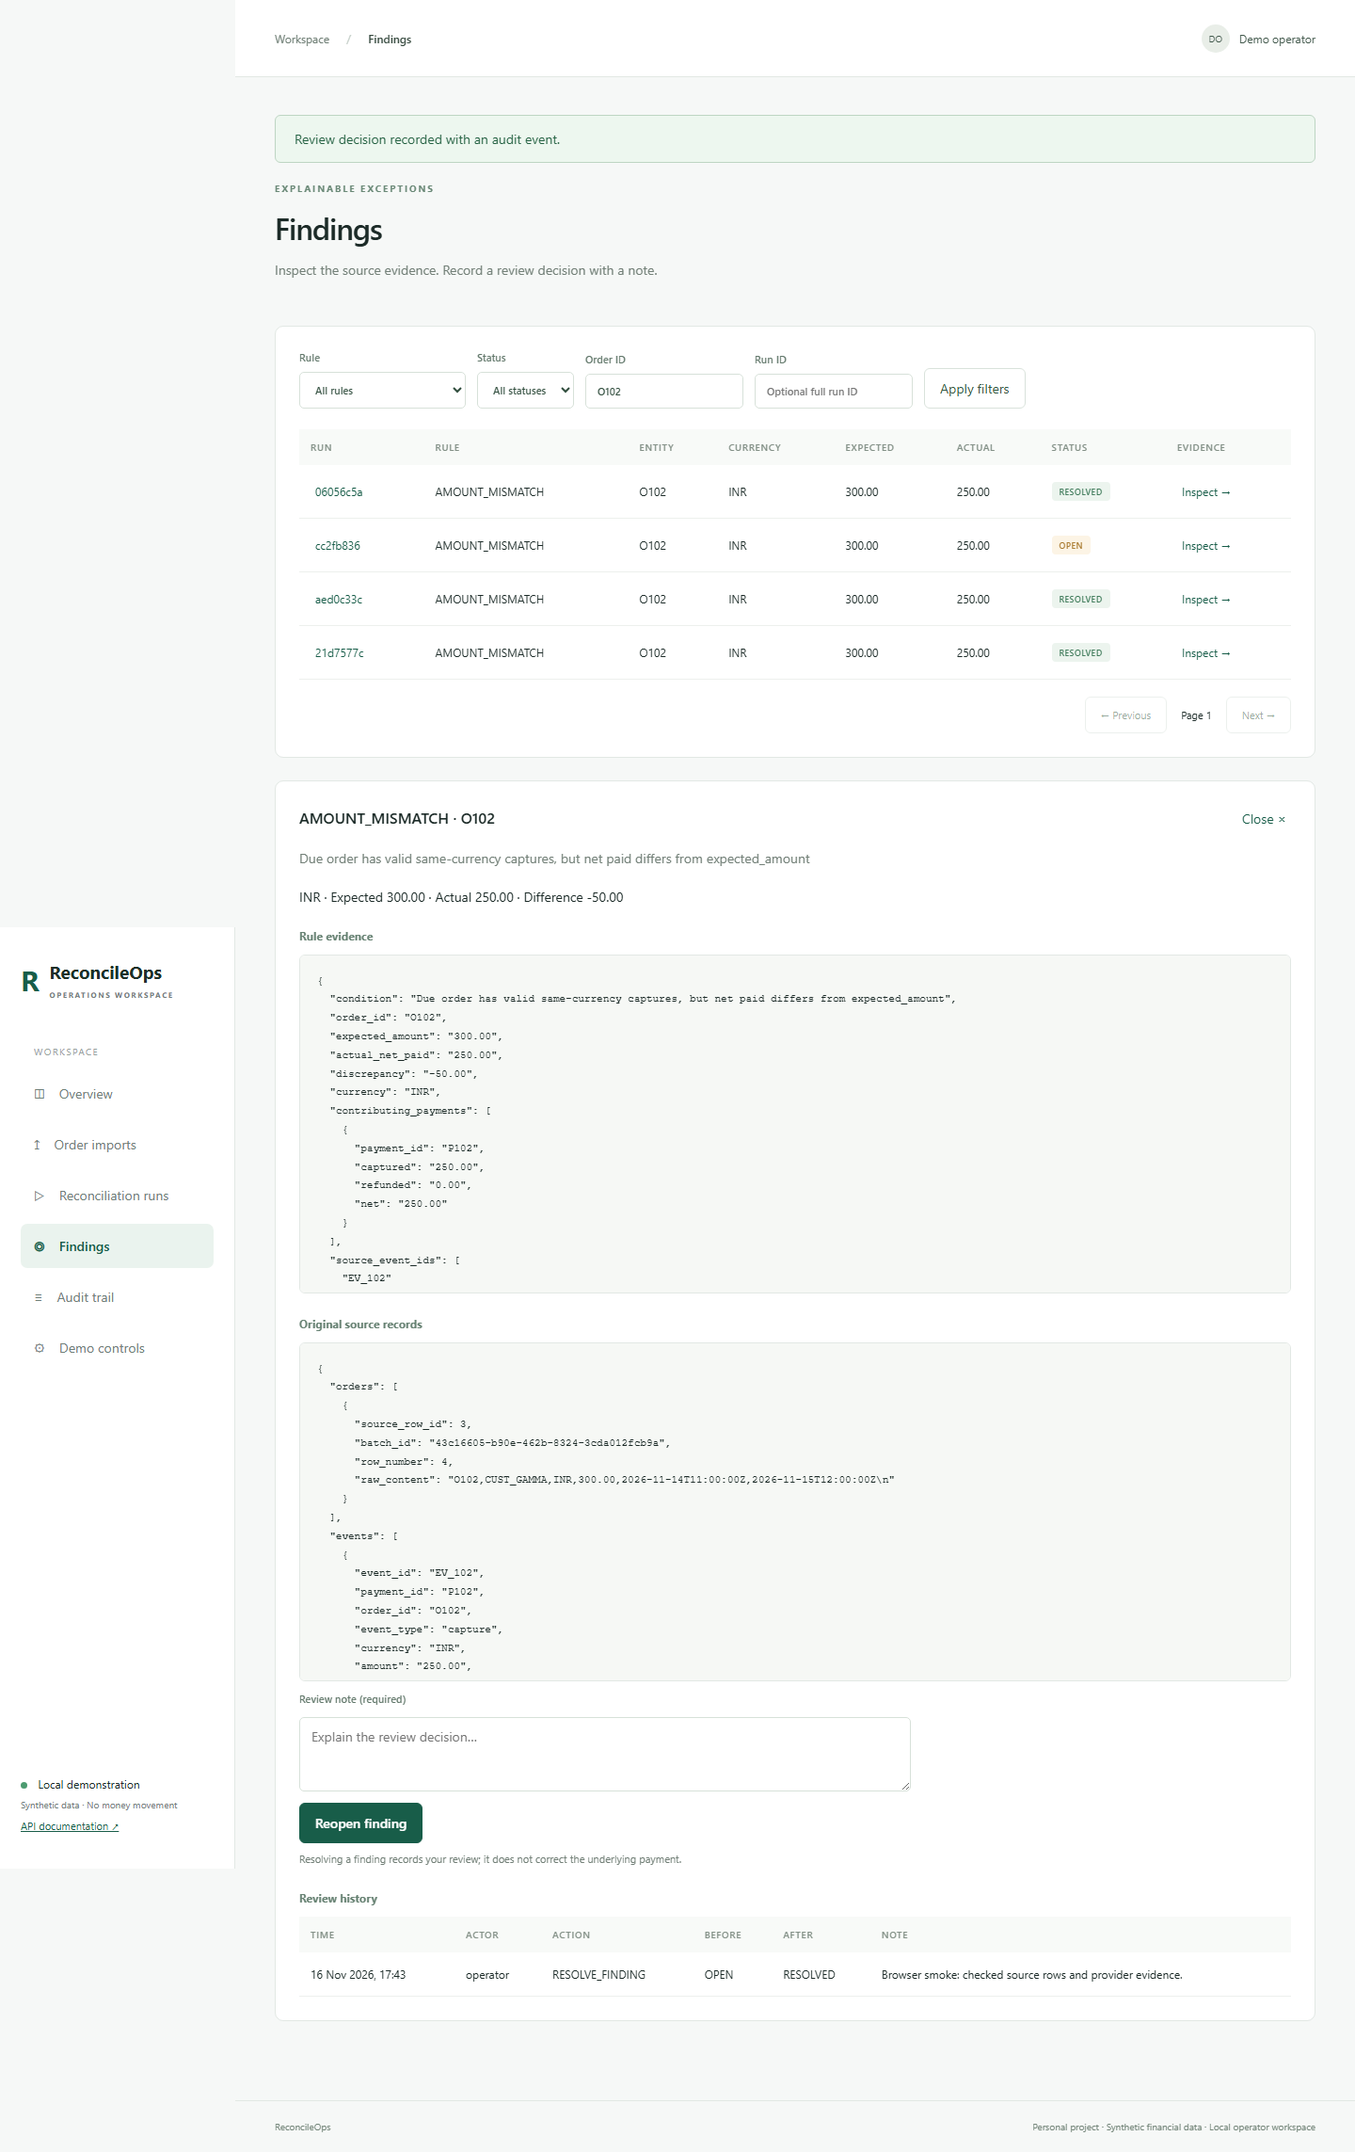
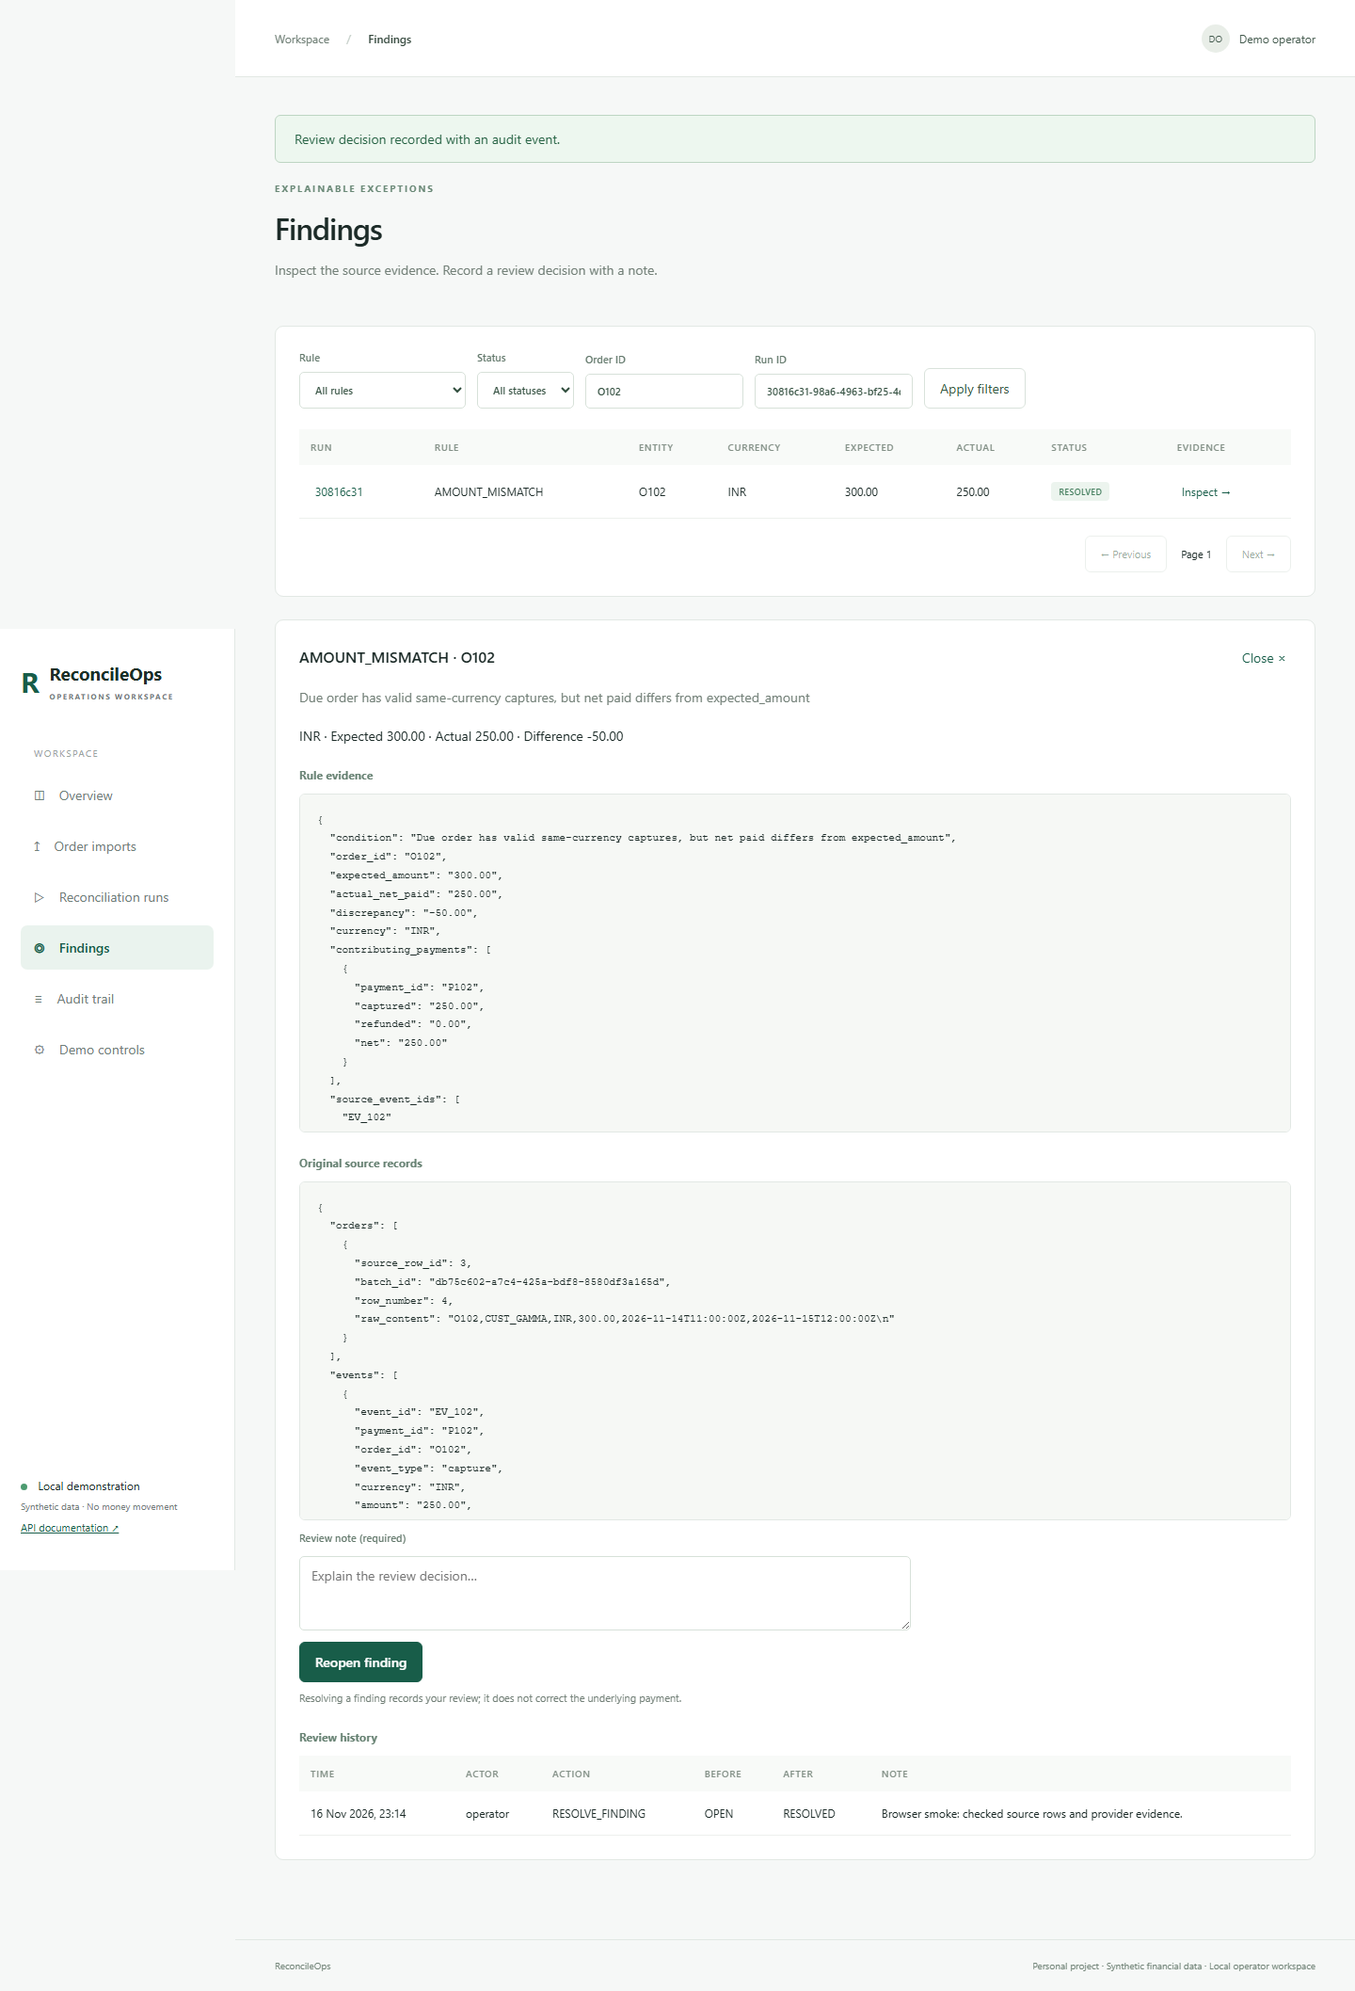
Fix Docker readiness and verify real Celery recovery

diff --git a/scripts/stack_acceptance.py b/scripts/stack_acceptance.py
@@ -1,0 +1,211 @@
+"""Disrupt only the local ReconcileOps demo; preserve all sources and run history.
+
+Run after browser_smoke.py has loaded the six-order/six-event baseline. This
+requires the normal Compose stack, not eager Celery or a mocked broker.
+"""
+
+import json
+import os
+import shutil
+import subprocess
+import time
+import uuid
+from pathlib import Path
+
+import httpx
+
+ROOT = Path(__file__).resolve().parents[1]
+DOCKER = shutil.which("docker") or str(
+    Path(os.environ["LOCALAPPDATA"]) / "Programs/DockerDesktop/resources/bin/docker.exe"
+)
+COMMAND = [DOCKER, "compose", "--project-directory", str(ROOT), "-p", "reconcileops"]
+BASE = "http://127.0.0.1:8000"
+REPORT = ROOT / "artifacts/stack-acceptance.json"
+
+
+def compose(*args, timeout=120):
+    result = subprocess.run(
+        [*COMMAND, *args], capture_output=True, text=True, timeout=timeout, check=True
+    )
+    return result.stdout.strip()
+
+
+def web(source):
+    return compose("exec", "-T", "web", "python", "-c", source)
+
+
+def api(method, path, **kwargs):
+    # Stateless requests avoid mixing the browser CSRF cookie with the CLI token.
+    response = httpx.request(
+        method, BASE + path, headers={"X-CSRF-Token": "cli"}, timeout=120, **kwargs
+    )
+    response.raise_for_status()
+    return response.json()
+
+
+def new_run():
+    response = httpx.post(
+        BASE + "/api/runs",
+        headers={"X-CSRF-Token": "cli", "Idempotency-Key": "acceptance-" + uuid.uuid4().hex},
+        json={"cutoff_time": "2026-11-16T12:00:00Z"},
+        timeout=120,
+    )
+    response.raise_for_status()
+    return response.json()["id"]
+
+
+def wait_run(run_id, status="SUCCEEDED", timeout=90):
+    deadline = time.monotonic() + timeout
+    while time.monotonic() < deadline:
+        detail = api("GET", "/api/runs/" + run_id)
+        if detail["status"] == status:
+            return detail
+        time.sleep(0.5)
+    raise TimeoutError(f"Run {run_id} did not become {status}: {detail}")
+
+
+def stored_result(run_id, attempts):
+    detail = wait_run(run_id)
+    findings = api("GET", "/api/findings?run_id=" + run_id)
+    assert (detail["orders_count"], detail["events_count"], detail["findings_count"]) == (6, 6, 7)
+    assert len(findings) == 7
+    assert len({(f["rule_code"], f["entity_type"], f["entity_id"]) for f in findings}) == 7
+    assert len(detail["attempts"]) == attempts
+    return {"run_id": run_id, "findings": 7, "attempts": detail["attempts"]}
+
+
+def main():
+    report = {"delivery": "real Linux Celery workers and Redis", "checks": {}}
+    blocker = None
+    try:
+        assert (
+            web(
+                "from reconcileops.config import settings; "
+                "from reconcileops.tasks.celery_app import celery_app; "
+                "assert settings.DEMO_MODE; assert not celery_app.conf.task_always_eager; "
+                "assert settings.MOCK_PROVIDER_URL == 'http://provider:8001'; print('demo-real')"
+            )
+            == "demo-real"
+        )
+        assert not any(
+            r["status"] in {"QUEUED", "RUNNING"} for r in api("GET", "/api/runs?limit=500")
+        )
+        assert not any(s["status"] in {"QUEUED", "RUNNING"} for s in api("GET", "/api/syncs"))
+        # Inspect labels before any disruption: never target another project's container.
+        for service in ("worker", "redis"):
+            container = compose("ps", "-q", service)
+            label = subprocess.check_output(
+                [
+                    DOCKER,
+                    "inspect",
+                    "--format",
+                    '{{index .Config.Labels "com.docker.compose.project"}}',
+                    container,
+                ],
+                text=True,
+            ).strip()
+            assert label == "reconcileops"
+
+        run_id = new_run()
+        stored_result(run_id, 1)
+        web(
+            "from reconcileops.tasks.tasks import reconcile_task; "
+            f"jobs=[reconcile_task.delay({run_id!r}) for _ in range(4)]; "
+            "[job.get(timeout=60) for job in jobs]; print('four deliveries completed')"
+        )
+        report["checks"]["duplicate_delivery"] = stored_result(run_id, 1)
+        print(
+            "PASS: four real duplicate deliveries, seven unique findings, one attempt", flush=True
+        )
+
+        # Queue first, then block snapshot reads so interruption occurs after the
+        # worker has committed a genuine RUNNING attempt, without fake task code.
+        compose("stop", "worker")
+        run_id = new_run()
+        source = (
+            "from reconcileops.storage.database import engine; "
+            "from sqlalchemy import text; "
+            "c=engine.connect(); t=c.begin(); "
+            "c.execute(text('LOCK TABLE snapshot_memberships IN ACCESS EXCLUSIVE MODE')); "
+            "print('LOCKED', flush=True); input(); t.rollback(); c.close()"
+        )
+        blocker = subprocess.Popen(
+            [*COMMAND, "exec", "-T", "web", "python", "-u", "-c", source],
+            stdin=subprocess.PIPE,
+            stdout=subprocess.PIPE,
+            stderr=subprocess.PIPE,
+            text=True,
+        )
+        assert blocker.stdout.readline().strip() == "LOCKED"
+        compose("start", "worker")
+        wait_run(run_id, "RUNNING")
+        compose("kill", "-s", "SIGKILL", "worker")
+        blocker.communicate("\n", timeout=20)
+        assert blocker.returncode == 0
+        blocker = None
+        recovered = json.loads(
+            web(
+                "import json; from reconcileops.storage.database import get_db_context; "
+                "from reconcileops.tasks.recovery import recover_stale_running_runs; "
+                "s=get_db_context(); db=s.__enter__(); "
+                "ids=recover_stale_running_runs(db, stale_timeout_seconds=0); "
+                "s.__exit__(None,None,None); print(json.dumps(ids))"
+            )
+        )
+        assert run_id in recovered
+        assert api("GET", "/api/runs/" + run_id)["status"] == "FAILED"
+        compose("start", "worker")
+        api("POST", "/api/runs/" + run_id + "/retry")
+        result = stored_result(run_id, 2)
+        assert [a["status"] for a in result["attempts"]] == ["FAILED", "SUCCEEDED"]
+        report["checks"]["worker_interruption_recovery"] = result
+        print(
+            "PASS: killed running worker, recovered and retried, seven unique findings", flush=True
+        )
+
+        compose("stop", "redis")
+        run_id = new_run()
+        assert api("GET", "/api/runs/" + run_id)["status"] == "QUEUED"
+        assert not api("GET", "/api/runs/" + run_id)["attempts"]
+        compose("start", "redis")
+        deadline = time.monotonic() + 60
+        while time.monotonic() < deadline:
+            if compose("exec", "-T", "redis", "redis-cli", "ping") == "PONG":
+                break
+            time.sleep(1)
+        else:
+            raise TimeoutError("Redis did not recover")
+        # A zero age threshold selects the newly committed test run immediately;
+        # production/manual recovery keeps its documented default of 15 seconds.
+        web(
+            "from reconcileops.storage.database import get_db_context; "
+            "from reconcileops.tasks.recovery import dispatch_orphaned_queued_runs; "
+            "s=get_db_context(); db=s.__enter__(); "
+            "print(dispatch_orphaned_queued_runs(db, older_than_seconds=0)); "
+            "s.__exit__(None,None,None)"
+        )
+        report["checks"]["redis_interruption_recovery"] = stored_result(run_id, 1)
+        overview = api("GET", "/api/overview")
+        assert (overview["orders"], overview["events"]) == (6, 6)
+        assert api("GET", "/health/ready")["status"] == "ready"
+        report["source_counts"] = {"orders": overview["orders"], "events": overview["events"]}
+        report["status"] = "passed"
+        print(
+            "PASS: Redis outage preserved queued run; recovery produced seven unique findings",
+            flush=True,
+        )
+    except Exception as exc:
+        report["status"] = "failed"
+        report["error"] = type(exc).__name__ + ": " + str(exc)
+        raise
+    finally:
+        if blocker is not None:
+            blocker.communicate("\n", timeout=20)
+        # Restore only the two demo services, without removing containers or data.
+        compose("start", "redis", "worker")
+        REPORT.parent.mkdir(parents=True, exist_ok=True)
+        REPORT.write_text(json.dumps(report, indent=2), encoding="utf-8")
+
+
+if __name__ == "__main__":
+    main()

diff --git a/scripts/browser_smoke.py b/scripts/browser_smoke.py
@@ -1,13 +1,29 @@
 """Exercise the real local stack and save screenshots, trace, and a short recording."""
 
+import csv
+import io
 import json
 import os
+import time
 from pathlib import Path
 
 from playwright.sync_api import sync_playwright
 
 BASE_URL = os.environ.get("SMOKE_BASE_URL", "http://localhost:8000")
-OUTPUT = Path("artifacts/browser")
+OUTPUT = Path(os.environ.get("SMOKE_OUTPUT_DIR", "artifacts/browser"))
+
+
+def wait_for_success(request, path):
+    deadline = time.monotonic() + 60
+    while time.monotonic() < deadline:
+        response = request.get(BASE_URL + path)
+        assert response.ok, response.text()
+        detail = response.json()
+        if detail["status"] == "SUCCEEDED":
+            return detail
+        assert detail["status"] != "FAILED", detail
+        time.sleep(0.25)
+    raise TimeoutError(f"Task did not finish: {path}")
 
 
 def main():
@@ -40,11 +56,7 @@ def main():
         ) as sync_response:
             page.locator("#sync-provider").click()
         sync_id = sync_response.value.json()["sync_id"]
-        page.wait_for_function(
-            """async id => {const r=await fetch('/api/syncs/'+id); return (await r.json()).status==='SUCCEEDED';}""",
-            arg=sync_id,
-            timeout=60000,
-        )
+        wait_for_success(context.request, "/api/syncs/" + sync_id)
         with page.expect_response(
             lambda response: (
                 response.url.endswith("/api/runs") and response.request.method == "POST"
@@ -52,17 +64,18 @@ def main():
         ) as run_response:
             page.get_by_role("button", name="Create run", exact=False).click()
         run_id = run_response.value.json()["id"]
-        page.wait_for_function(
-            """async id => {const r=await fetch('/api/runs/'+id); return (await r.json()).status==='SUCCEEDED';}""",
-            arg=run_id,
-            timeout=60000,
-        )
+        run = wait_for_success(context.request, "/api/runs/" + run_id)
         page.screenshot(path=str(OUTPUT / "03-runs.png"), full_page=True)
+        assert (run["orders_count"], run["events_count"], run["findings_count"]) == (6, 6, 7), run
         page.locator('nav button[data-page="findings"]').click()
+        page.locator('#filters input[name="run_id"]').fill(run_id)
         page.locator('#filters input[name="order_id"]').fill("O102")
         page.get_by_role("button", name="Apply filters").click()
-        page.locator("#findings-table button").filter(has_text="Inspect").first.click()
+        page.locator("#findings-table tbody tr").filter(has_text=run_id[:8]).filter(
+            has_text="O102"
+        ).get_by_role("button", name="Inspect", exact=False).click()
         page.locator("#evidence").wait_for(state="visible")
+        page.locator("#source-json").filter(has_text="250.00").wait_for()
         page.locator("#review-note").fill(
             "Browser smoke: checked source rows and provider evidence."
         )
@@ -71,9 +84,17 @@ def main():
         page.screenshot(path=str(OUTPUT / "04-evidence-review.png"), full_page=True)
         response = context.request.get(BASE_URL + "/api/runs/" + run_id + "/findings.csv")
         assert response.ok
-        csv = response.text()
-        assert "AMOUNT_MISMATCH" in csv and "MISSING_PAYMENT" in csv
-        (OUTPUT / "findings.csv").write_text(csv, encoding="utf-8")
+        csv_text = response.text()
+        assert "AMOUNT_MISMATCH" in csv_text and "MISSING_PAYMENT" in csv_text
+        exported = list(csv.DictReader(io.StringIO(csv_text)))
+        assert len(exported) == 7 and all(row["run_id"] == run_id for row in exported)
+        reviewed = next(row for row in exported if row["entity_id"] == "O102")
+        assert reviewed["status"] == "RESOLVED"
+        assert (
+            reviewed["resolution_note"]
+            == "Browser smoke: checked source rows and provider evidence."
+        )
+        (OUTPUT / "findings.csv").write_text(csv_text, encoding="utf-8")
         page.locator('nav button[data-page="audit"]').click()
         page.locator("#audit-table").filter(has_text="RESOLVE_FINDING").wait_for()
         page.screenshot(path=str(OUTPUT / "05-audit.png"), full_page=True)
@@ -105,9 +126,7 @@ def main():
         context.tracing.stop(path=str(OUTPUT / "trace.zip"))
         context.close()
         browser.close()
-        print(
-            "Browser smoke passed; screenshots, recording, export, and trace are in artifacts/browser."
-        )
+        print(f"Browser smoke passed; screenshots, recording, export, and trace are in {OUTPUT}.")
 
 
 if __name__ == "__main__":

diff --git a/README.md b/README.md
@@ -10,7 +10,7 @@ Screenshots and a recording are generated by `scripts/browser_smoke.py` into `ar
 
 ![Actual operator workspace with persisted synthetic data](docs/screenshots/overview.png)
 
-The screenshot shows repeated runs against the same six orders and six events; open findings are counted across runs. Screenshot verification used the isolated PostgreSQL browser harness with inline task delivery. Linux worker/Redis acceptance is a separate check in the acceptance report.
+The screenshot shows repeated runs against the same six orders and six events; open findings are counted across runs. Screenshot verification used the normal Docker Compose stack with PostgreSQL, Redis, and a real Linux Celery worker. Commands, recovery checks, and limitations are recorded in the acceptance report.
 
 ## Features
 
@@ -75,12 +75,14 @@ To demonstrate the upload preview rather than seed, download the sample from the
 docker compose exec web ruff check src tests scripts alembic
 docker compose exec web ruff format --check src tests scripts alembic
 docker compose exec web pytest tests/unit tests/integration -q
-docker compose exec -e TEST_DATABASE_URL=postgresql+psycopg://reconcileops:local-demo@postgres:5432/reconcileops web pytest tests/postgres -q
+docker compose exec postgres createdb -U reconcileops reconcileops_test
+
+docker compose exec -e TEST_DATABASE_URL=postgresql+psycopg://reconcileops:local-demo@postgres:5432/reconcileops_test web pytest tests/postgres -q
 docker compose exec web alembic check
 docker compose exec web python scripts/benchmark.py
 ```
 
-PostgreSQL tests create random temporary schemas and drop only those schemas. They fail explicitly if `TEST_DATABASE_URL` is missing. They are not silently substituted with SQLite or counted as passed when unavailable. Core storage tests use SQLite; their results alone do not prove PostgreSQL concurrency.
+Create `reconcileops_test` once; on later runs reuse that dedicated test database. Never point `TEST_DATABASE_URL` at the application database (`reconcileops`). PostgreSQL tests create random temporary schemas in the test database and drop only those schemas. They fail explicitly if `TEST_DATABASE_URL` is missing. They are not silently substituted with SQLite or counted as passed when unavailable. Core storage tests use SQLite; their results alone do not prove PostgreSQL concurrency.
 
 For browser verification from a project virtual environment on D:
 
@@ -99,6 +101,16 @@ New-Item -ItemType Directory -Force $env:TEMP | Out-Null
 ```
 
 The browser test uses the running stack; it does not inject fake UI progress or replace the Celery worker. It saves a trace, screenshots, export, and video. Run it with fresh synthetic demo data to keep the walkthrough easy to inspect. Tests may create additional reconciliation runs, so open-finding counts across all runs can increase even though source IDs are deduplicated.
+
+Set `SMOKE_OUTPUT_DIR` to retain evidence in a separate directory, such as `artifacts/browser-compose`. The smoke checks the newly created run, seven exported findings, and the persisted review decision.
+
+After the browser smoke, with the six-order/six-event baseline and no queued or running work, verify real worker/broker recovery:
+
+```powershell
+.\.venv\Scripts\python.exe scripts/stack_acceptance.py
+```
+
+This deliberately stops/kills only the `reconcileops` Compose worker and Redis services. It publishes four duplicate tasks, interrupts a worker after a real RUNNING attempt is stored, recovers/retries that run, then interrupts Redis and republishes the durable queued run after restart. It checks seven unique findings per run, attempt history, source counts, and final readiness. It preserves data and restores the services; results are written to `artifacts/stack-acceptance.json`. Run it only against this local synthetic demo. Worker recovery is manual recovery plus retry; the check does not claim automatic redelivery after killing the entire worker container.
 
 CI runs Ruff, core tests, migrations, schema drift checks, and PostgreSQL concurrency tests. Browser checks are separately documented because they need the running multi-service stack.
 
